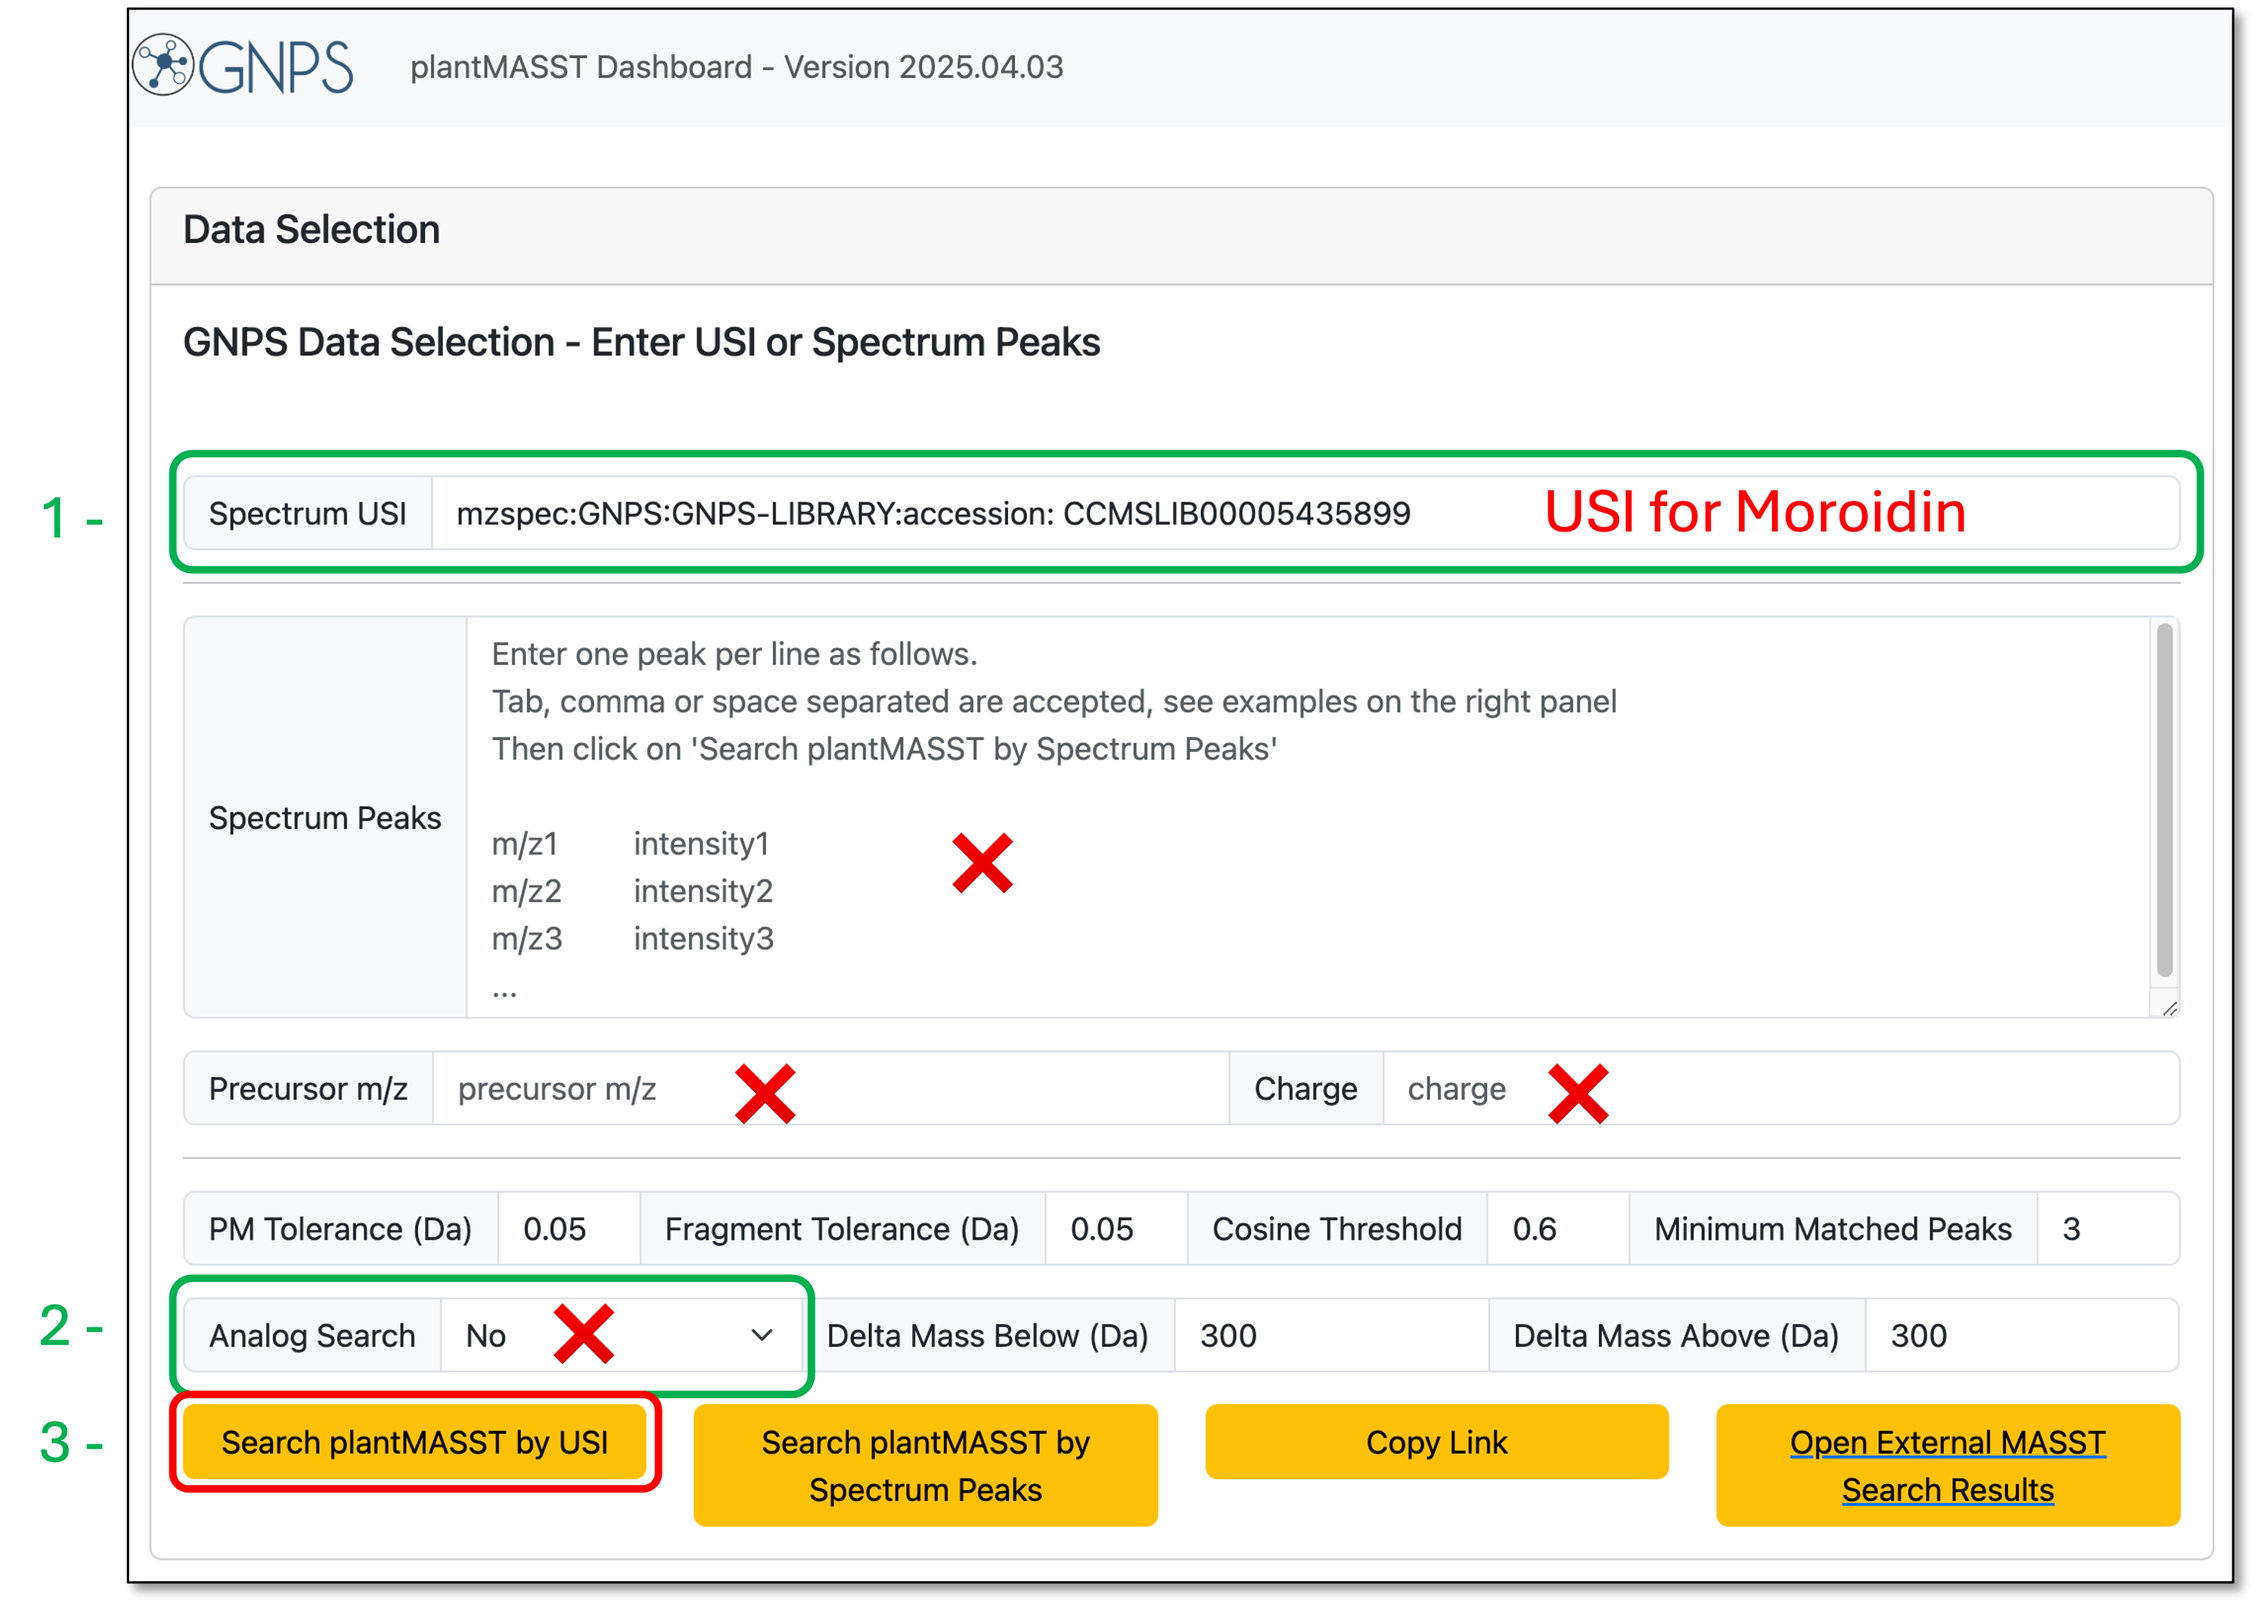
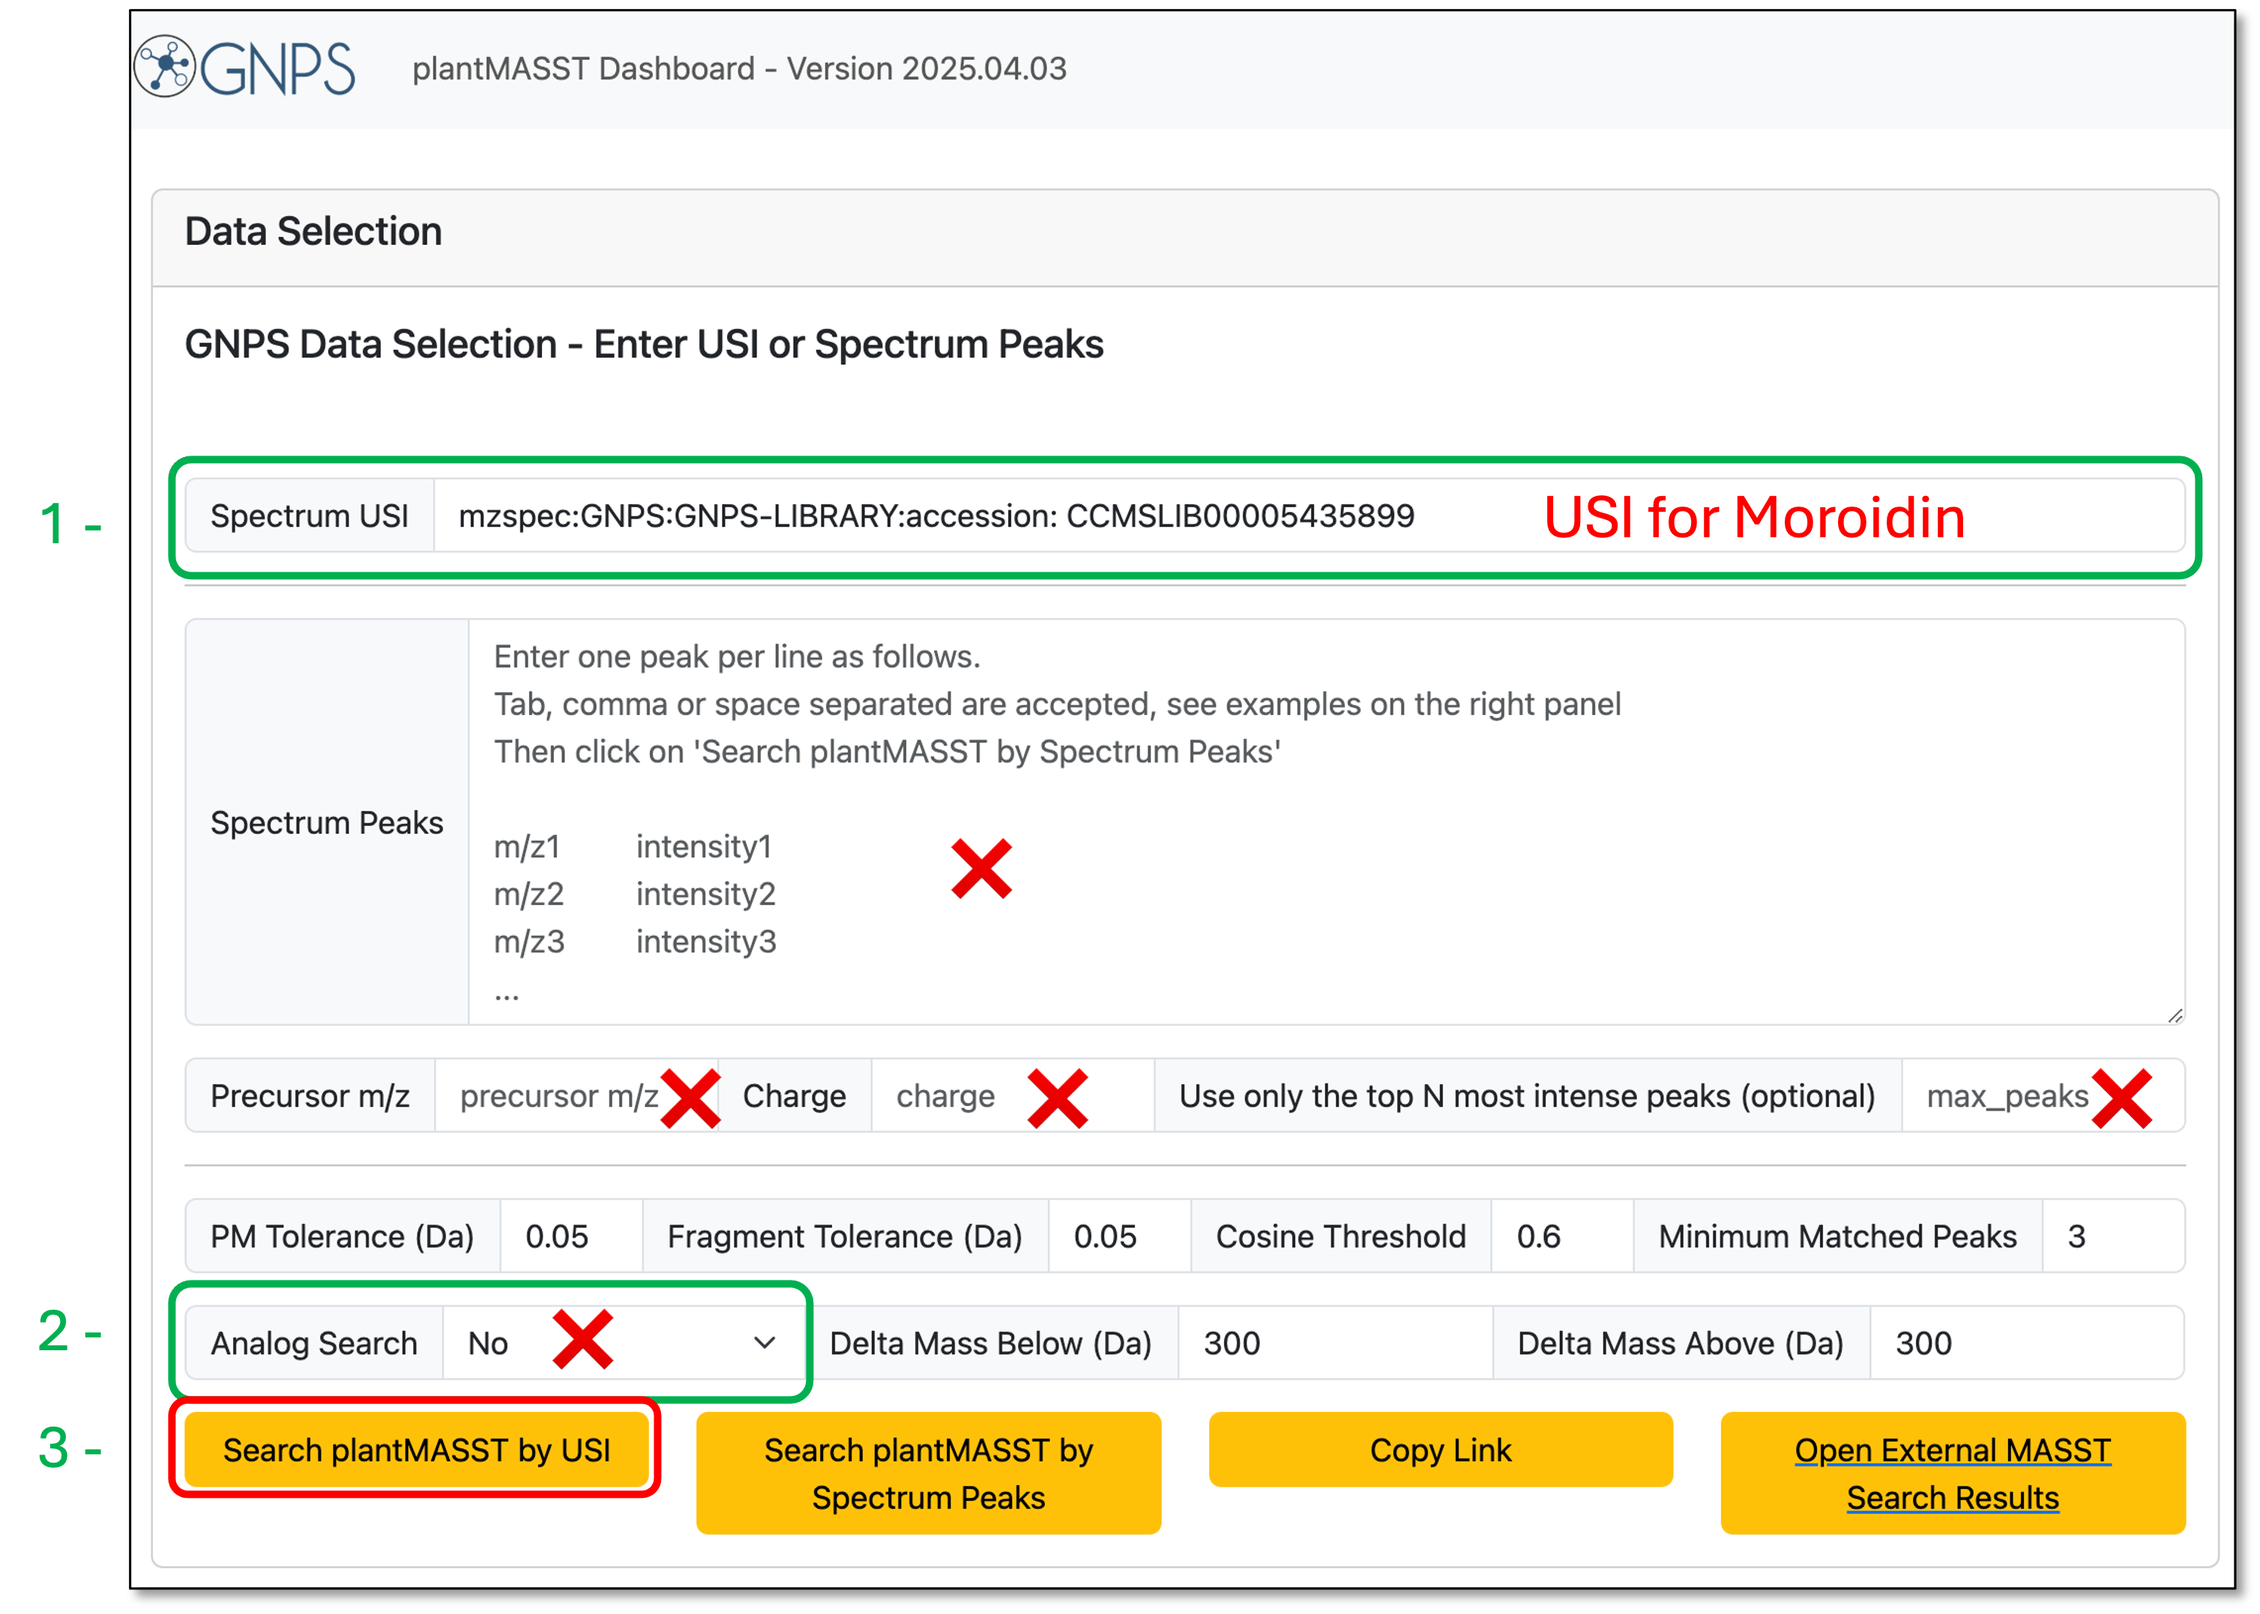
updating figs and adding input search parameters and warnings

diff --git a/docs/plantmasst.md b/docs/plantmasst.md
@@ -12,7 +12,7 @@ The user can provide two different types of input for the search: by **USI (Univ
 
 To perform a search using a spectrum identifier (USI), just copy and paste it into the “**Spectrum USI**” input area. If the user wants to perform a search using their own data, they can deposit datasets in [MassIVE](https://massive.ucsd.edu/), [MetaboLights](https://www.ebi.ac.uk/metabolights/), or [Metabolomics Workbench](https://www.metabolomicsworkbench.org/), and using the GNPS Dashboard tool, get the USI assigned to each specific scan. The user can access the documentation to see more details about the usage of the dashboard ([GNPS Dashboard Documentation](https://ccms-ucsd.github.io/GNPSDocumentation/lcms-dashboard/)). 
 
-In addition, an USI can be retrieved from a GNPS job (such as feature-based molecular networking or classical molecular networking workflow) or from any spectrum that is part of the GNPS libraries. Examples of types of valid USIs can be found in the [Metabolomics Spectrum Resolver webpage](https://metabolomics-usi.gnps2.org/).
+In addition, a USI can be retrieved from a GNPS job (such as feature-based molecular networking or classical molecular networking workflow) or from any spectrum that is part of the GNPS libraries. Examples of types of valid USIs can be found in the [Metabolomics Spectrum Resolver webpage](https://metabolomics-usi.gnps2.org/).
 
 ![](img/plantmasst/img1.png)
 _**Figure 1.** Input area for USI search on plantMASST_
@@ -21,10 +21,37 @@ _**Figure 1.** Input area for USI search on plantMASST_
 
 Another useful way to perform a search is to use the “**Spectrum Peaks**” input field to pass the spectrum details as a list of m/z and intensity pair values. This option is particularly helpful when the spectrum is not deposited in any of the repositories cited above, so no USI is associated with it.
 
-In such cases, the user must also provide a value in the **“Precursor m/z”** field to specify the mass-to-charge ratio of the precursor ion. The **“Charge”** field can be included as well, but it defaults to 1 if left blank.
+In such cases, the user must also provide a value in the **“Precursor m/z”** field to specify the mass-to-charge ratio of the precursor ion. The **“Charge”** field can be included as well, but it defaults to 1 if left blank. The **"Use only the top N most intense peaks"** is optional, and can be useb both with USI and Spectrum peaks search. [See more details about this parameter below](#input-search-parameters:~:text=Use%20only%20the%20top%20N%20most%20intense%20peaks%20(optional)).
 
 ![](img/plantmasst/img2.png)
 _**Figure 2.** Input area for searching by spectrum peaks. The user needs to provide the formatted peak list and Precursor m/z. The charge input is optional, and defaults to 1 if not provided._
+
+### Input search parameters
+The user can also adjust the search parameters to customize the search. The following parameters are available.
+
+**Parameters available only for searches using Spectrum peaks:**
+
+- **Precursor m/z**: The mass-to-charge ratio of the precursor ion. This field is required when using the Spectrum Peaks input.
+- **Charge**: The charge state of the precursor ion. This field is optional and defaults to 1 if not provided.
+
+
+**Parameters available for both USI and Spectrum Peaks searches:**
+
+- **Precursor m/z Tolerance (Da)**: The mass tolerance for the precursor ion. The default value is 0.05 Da.
+- **Fragment Tolerance (Da)**: The mass tolerance for the fragment ions. The default value is 0.05 Da.
+- **Cosine Threshold**: The minimum cosine similarity score for a match. The default value is 0.7.
+- **Minimum Matched Peaks**: The minimum number of matched peaks required for a match. The default value is 3.
+- **Use only the top N most intense peaks (optional)**: The user can specify a number to limit the number of peaks used in the search. This is useful for reducing noise in the spectrum by using only the N most intense peaks in the spectrum. The default value is empty, meaning all peaks will be used. When performing searches using USI, the list of peaks will be fetched from the GNPS database, and the user can choose to limit the number of peaks used in the search.
+
+!!! warning "Important note"
+    When using **Use only the top N most intense peaks** option with the USI search, it won't be possible to see mirror plots for the matches. This is because the search will be performed using the top N peaks, and the mirror plot requires the full spectrum and USI search for comparison. If you want to see mirror plots, please do not use this option.
+
+**Parameters available when performing Analog Search:**
+
+- **Analog Search**: This option allows the user to search for possible analogs of the compound. The default value is No.
+- **Delta Mass Above (Da)**: The maximum mass difference between the query and the analog. The default value is 130 Da.
+- **Delta Mass Below (Da)**: The minimum mass difference between the query and the analog. The default value is 200 Da.
+
 
 ## Search examples
 
